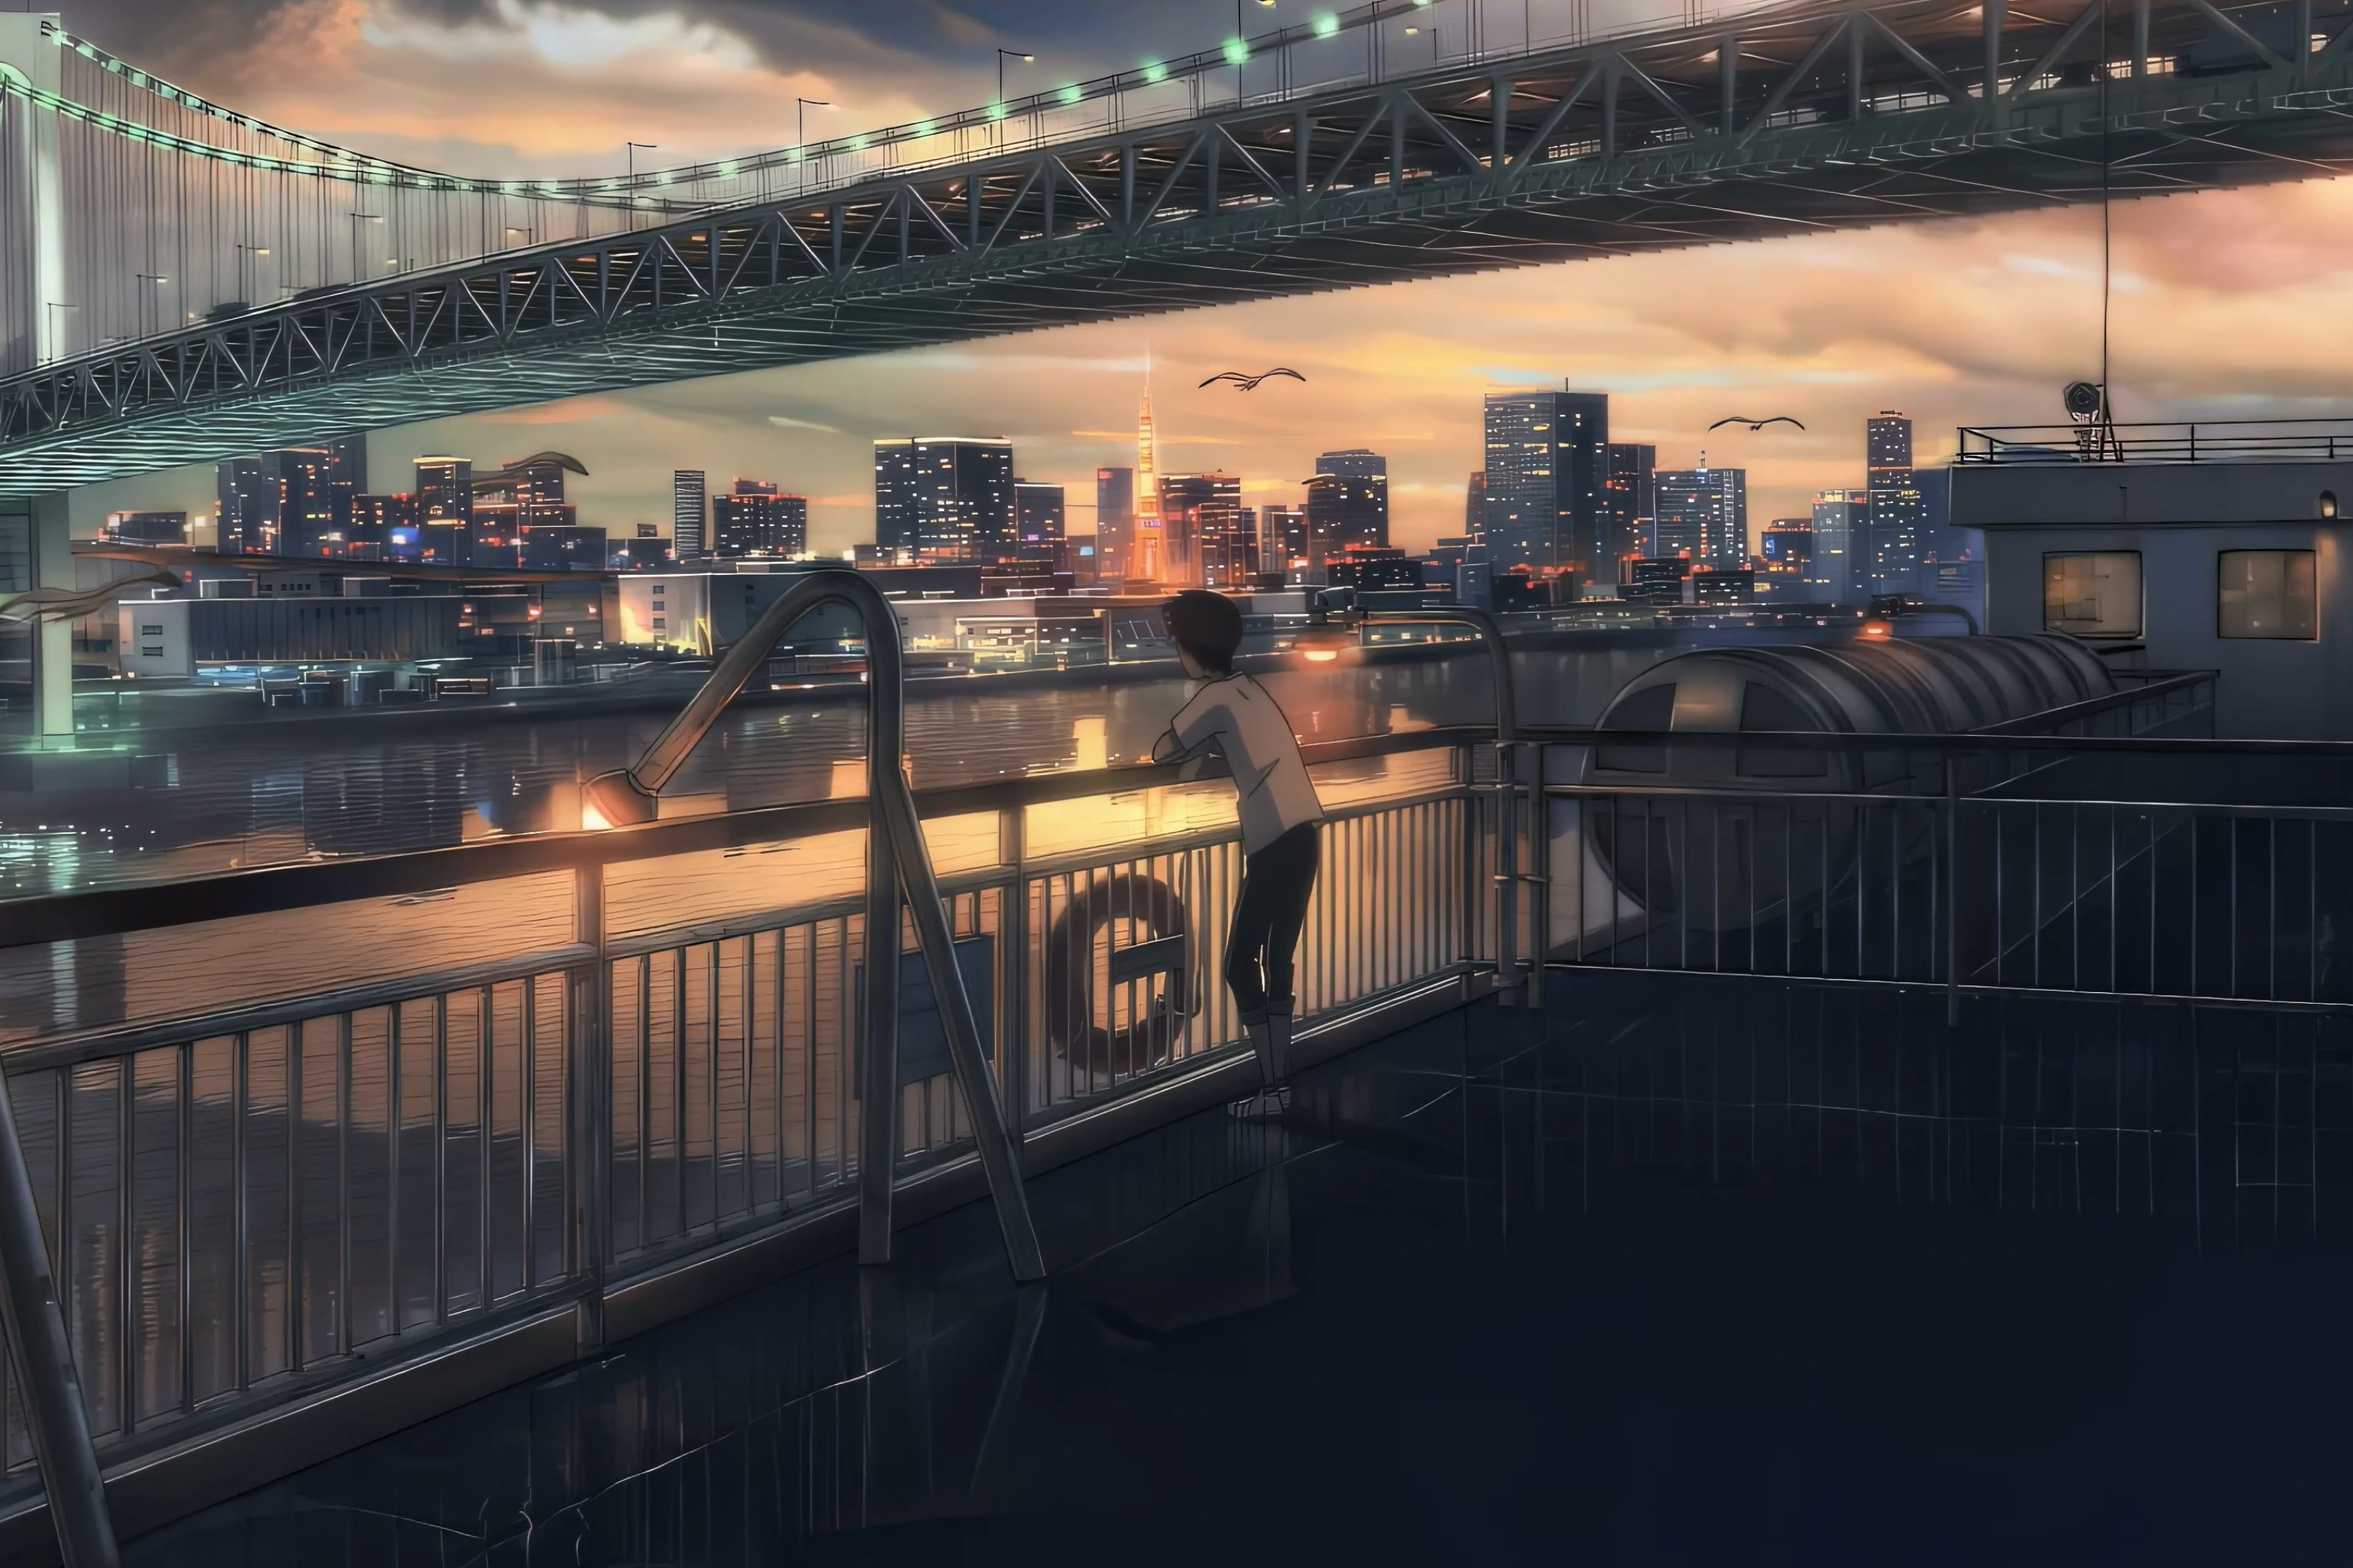
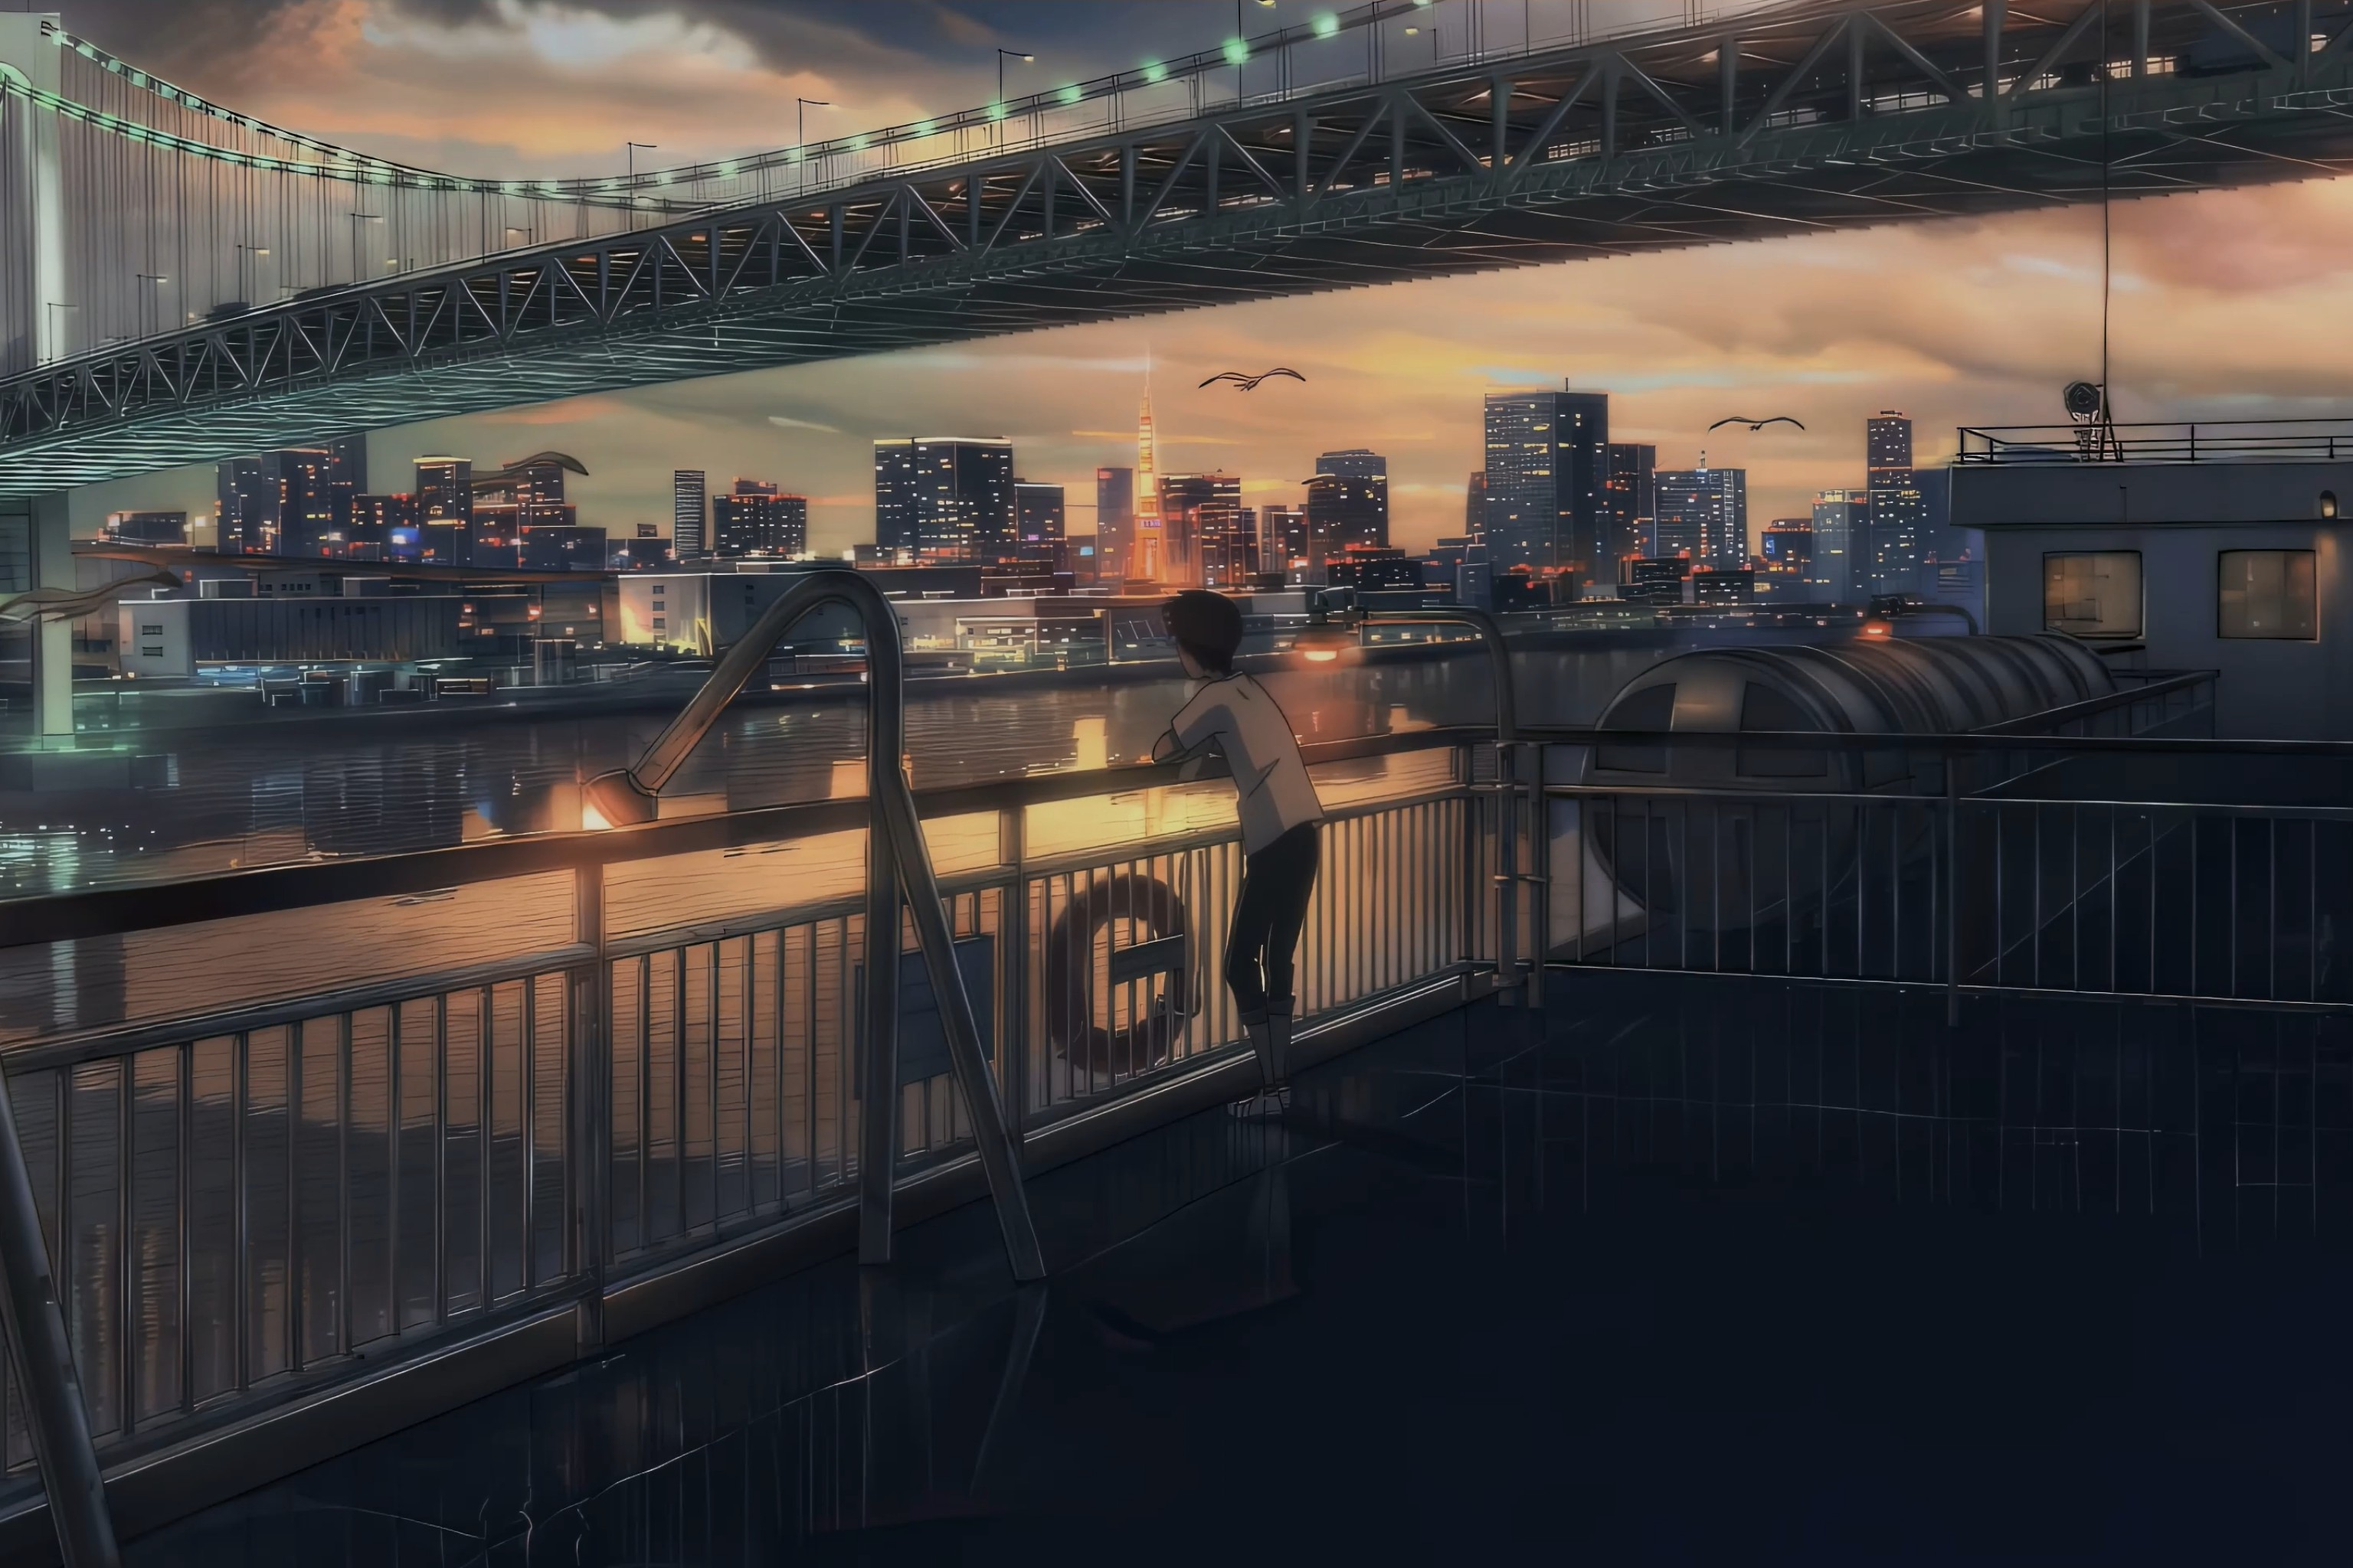
refine(v4.7.3): 调整壁纸亮度与取景

diff --git a/assets/app.js b/assets/app.js
@@ -78,6 +78,7 @@
     signs: [],
     wallpaper: "dark",
     wallpaperBlur: {},
+    wallpaperBrightness: {},
     glassMaterial: { version: 1, home: "warm", sheets: "warm" },
     glassMaterialReady: false,
     wallpaperRolled: "",
@@ -1717,11 +1718,12 @@
   var EXPORT_BIG_CHARS = 64 * 1024;   // 单次复制开始提示静默截断风险的体量
   var EXPORT_STORE_WAIT = 1600;       // 两个引擎就绪的等待上限，超时只降级，不失败
 
-  var EXPORT_KEYS = ["profile", "icons", "folds", "wallpaper", "wallpaperBlur", "glassMaterial", "wallpaperProbability",
+  var EXPORT_KEYS = ["profile", "icons", "folds", "wallpaper", "wallpaperBlur", "wallpaperBrightness", "glassMaterial", "wallpaperProbability",
     "probabilityDefaults", "interactionSettings", "collisionSettings", "motionSettings", "autoDriveSettings",
     "uiPrefs", "logs", "signs", "logsBundleVersion", "signsBundleVersion"];
   var EXPORT_LABELS = {
-    profile: "名片", icons: "图标偏好", folds: "折叠状态", wallpaper: "壁纸模式", wallpaperBlur: "壁纸模糊", glassMaterial: "玻璃材质",
+    profile: "名片", icons: "图标偏好", folds: "折叠状态", wallpaper: "壁纸模式", wallpaperBlur: "壁纸模糊",
+    wallpaperBrightness: "壁纸亮度", glassMaterial: "玻璃材质",
     wallpaperProbability: "明暗比例", probabilityDefaults: "比例默认值", interactionSettings: "浮光数量",
     collisionSettings: "碰撞力度", motionSettings: "自然 pace", autoDriveSettings: "自动驾驶", uiPrefs: "编号徽章",
     logs: "日志", signs: "签名历史", logsBundleVersion: "日志版本", signsBundleVersion: "签名版本"
@@ -2740,6 +2742,13 @@
   var WP_BLUR_RATIO = 1.2;
   var WP_THUMB_SCALE = 0.25;
 
+  var WP_BRIGHT_MIN = 50;
+  var WP_BRIGHT_MAX = 100;
+  /* 资源里已经烙进去的亮度：Dark 出厂压暗到 86%。滑轨以未压暗的原图亮度为 100 基准，
+     出厂值即烙入值（换算回滤镜系数为 1）。 */
+  var WP_BRIGHT_BAKED = { light: 100, dark: 86 };
+  var WP_BRIGHT_DEFAULT = WP_BRIGHT_BAKED;
+
   var WP_MODES = ["dark", "light", "random"];
   var interactionController = null;
   var autoDriveUI = { state: null, hideTimer: 0, fadeTimer: 0, pointerDown: false, keyboardFocus: false };
@@ -2962,6 +2971,16 @@
     return Math.round(wpBlurPercent(side) * WP_BLUR_RATIO * 10) / 10;
   }
 
+  function wpBrightPercent(side) {
+    var value = state.wallpaperBrightness[side];
+    if (typeof value !== "number") return WP_BRIGHT_DEFAULT[side];
+    return Math.min(WP_BRIGHT_MAX, Math.max(WP_BRIGHT_MIN, value));
+  }
+
+  function wpBrightFactor(side) {
+    return String(Math.round(wpBrightPercent(side) / WP_BRIGHT_BAKED[side] * 1000) / 1000);
+  }
+
   function applyWallpaper() {
     var side = wpSide();
     var url = 'url("' + WALLPAPERS[side].src + '")';
@@ -2973,6 +2992,11 @@
     }
     try {
       document.documentElement.style.setProperty("--wp-blur", wpBlurPx(side) + "px");
+    } catch (error) {
+      /* 忽略 */
+    }
+    try {
+      document.documentElement.style.setProperty("--wp-bright", wpBrightFactor(side));
     } catch (error) {
       /* 忽略 */
     }
@@ -2992,6 +3016,7 @@
   function saveWallpaper() {
     storageSet("wallpaper", state.wallpaper).catch(function () {});
     storageSet("wallpaperBlur", state.wallpaperBlur).catch(function () {});
+    storageSet("wallpaperBrightness", state.wallpaperBrightness).catch(function () {});
   }
 
   function loadWallpaper() {
@@ -3005,12 +3030,14 @@
       storageGet("wallpaper", null),
       storageGet("wallpaperBlur", null),
       storageGet("wallpaperProbability", null),
-      readInteractionSetting("interactionSettings").catch(function () { state.interactionReadError = true; return null; })
+      readInteractionSetting("interactionSettings").catch(function () { state.interactionReadError = true; return null; }),
+      storageGet("wallpaperBrightness", null)
     ]).then(function (settings) {
       if (revision !== wallpaperLoadRevision) return;
       var saved = settings[0];
       var savedBlur = settings[1];
       var savedProbability = settings[2];
+      var savedBright = settings[4];
       state.interactionDefaultCount = interactionCountValue(settings[3] && settings[3].defaultCount);
       state.interactionCount = state.interactionDefaultCount;
       if (interactionController) interactionController.setCount(state.interactionCount);
@@ -3028,6 +3055,11 @@
       if (savedBlur && typeof savedBlur === "object") {
         ["light", "dark"].forEach(function (side) {
           if (typeof savedBlur[side] === "number") state.wallpaperBlur[side] = savedBlur[side];
+        });
+      }
+      if (savedBright && typeof savedBright === "object") {
+        ["light", "dark"].forEach(function (side) {
+          if (typeof savedBright[side] === "number") state.wallpaperBrightness[side] = savedBright[side];
         });
       }
       // 一次性迁移：Light 的旧默认 5% → 新默认 4%
@@ -3951,6 +3983,23 @@
     blurRow.appendChild(range);
     blurRow.appendChild(value);
 
+    var brightRow = document.createElement("div");
+    brightRow.className = "wp-brightrow";
+    var brightLabel = document.createElement("span");
+    brightLabel.className = "wp-label";
+    brightLabel.textContent = "亮度";
+    var brightRange = document.createElement("input");
+    brightRange.type = "range";
+    brightRange.className = "wp-range";
+    brightRange.min = String(WP_BRIGHT_MIN);
+    brightRange.max = String(WP_BRIGHT_MAX);
+    brightRange.step = "1";
+    var brightValue = document.createElement("span");
+    brightValue.className = "wp-value";
+    brightRow.appendChild(brightLabel);
+    brightRow.appendChild(brightRange);
+    brightRow.appendChild(brightValue);
+
     var modeNote = document.createElement("p");
     modeNote.className = "wp-mode-note";
 
@@ -3972,6 +4021,7 @@
     body.appendChild(modeNote);
     body.appendChild(picks);
     body.appendChild(blurRow);
+    body.appendChild(brightRow);
     body.appendChild(buildGlassMaterialSettings());
 
     var thumbs = {};
@@ -3979,7 +4029,7 @@
     function paintThumbs() {
       ["light", "dark"].forEach(function (side) {
         var node = thumbs[side];
-        if (node) node.style.filter = "blur(" + (wpBlurPercent(side) * WP_BLUR_RATIO * WP_THUMB_SCALE).toFixed(2) + "px)";
+        if (node) node.style.filter = "blur(" + (wpBlurPercent(side) * WP_BLUR_RATIO * WP_THUMB_SCALE).toFixed(2) + "px) brightness(" + wpBrightFactor(side) + ")";
       });
     }
 
@@ -4004,6 +4054,7 @@
       saveWallpaper();
       refresh();
       syncBlur();
+      syncBright();
       syncRandom();
     });
 
@@ -4011,6 +4062,12 @@
       var percent = wpBlurPercent(wpSide());
       range.value = String(percent);
       value.textContent = percent + "%";
+    }
+
+    function syncBright() {
+      var percent = wpBrightPercent(wpSide());
+      brightRange.value = String(percent);
+      brightValue.textContent = percent + "%";
     }
 
     function refresh() {
@@ -4042,6 +4099,7 @@
           saveWallpaper();
           refresh();
           syncBlur();
+          syncBright();
         });
         picks.appendChild(card);
       });
@@ -4059,6 +4117,14 @@
     });
     range.addEventListener("change", saveWallpaper);
 
+    brightRange.addEventListener("input", function () {
+      state.wallpaperBrightness[wpSide()] = Number(brightRange.value) || WP_BRIGHT_DEFAULT[wpSide()];
+      brightValue.textContent = state.wallpaperBrightness[wpSide()] + "%";
+      applyWallpaper();
+      paintThumbs();
+    });
+    brightRange.addEventListener("change", saveWallpaper);
+
     openSheet({
       title: "壁纸",
       content: body,
@@ -4068,6 +4134,7 @@
     });
     refresh();
     syncBlur();
+    syncBright();
     syncRandom();
     applyGlassMaterial();
   }

diff --git a/assets/app.css b/assets/app.css
@@ -268,7 +268,7 @@ input[type="search"]::-webkit-search-cancel-button { display: none; }
 :root[data-theme="dark"] .wp-toggle.yang .wp-g1 { stop-color: #4E5C74; }
 :root[data-theme="dark"] .wp-toggle.yang .wp-g2 { stop-color: #E8EEF8; }
 
-/* 壁纸层：位于壁纸之上、内容之下；模糊只作用于这一层，不会糊到界面 */
+/* 壁纸层：位于壁纸之上、内容之下；模糊与亮度只作用于这一层，不会糊到界面 */
 .wp-img {
   position: fixed;
   inset: -26px;
@@ -277,8 +277,8 @@ input[type="search"]::-webkit-search-cancel-button { display: none; }
   background-position: center center;
   background-size: cover;
   background-repeat: no-repeat;
-  filter: blur(var(--wp-blur, 0px));
-  -webkit-filter: blur(var(--wp-blur, 0px));
+  filter: blur(var(--wp-blur, 0px)) brightness(var(--wp-bright, 1));
+  -webkit-filter: blur(var(--wp-blur, 0px)) brightness(var(--wp-bright, 1));
 }
 
 /* 壁纸面板 */
@@ -382,20 +382,25 @@ input[type="search"]::-webkit-search-cancel-button { display: none; }
   background: #43D17C;
 }
 
-.wp-blurrow {
+.wp-blurrow,
+.wp-brightrow {
   display: flex;
   align-items: center;
   gap: 16px;
   margin-top: 28px;
   padding: 0 4px;
 }
-.wp-blurrow .wp-label {
+/* 亮度与柔焦成对：两条轨道贴成一组，组内留白比组间更紧 */
+.wp-brightrow { margin-top: 18px; }
+.wp-blurrow .wp-label,
+.wp-brightrow .wp-label {
   flex: none;
   font-size: 11.5px;
   letter-spacing: 1.4px;
   color: var(--ink-3);
 }
-.wp-blurrow .wp-value {
+.wp-blurrow .wp-value,
+.wp-brightrow .wp-value {
   flex: none;
   min-width: 40px;
   text-align: right;
